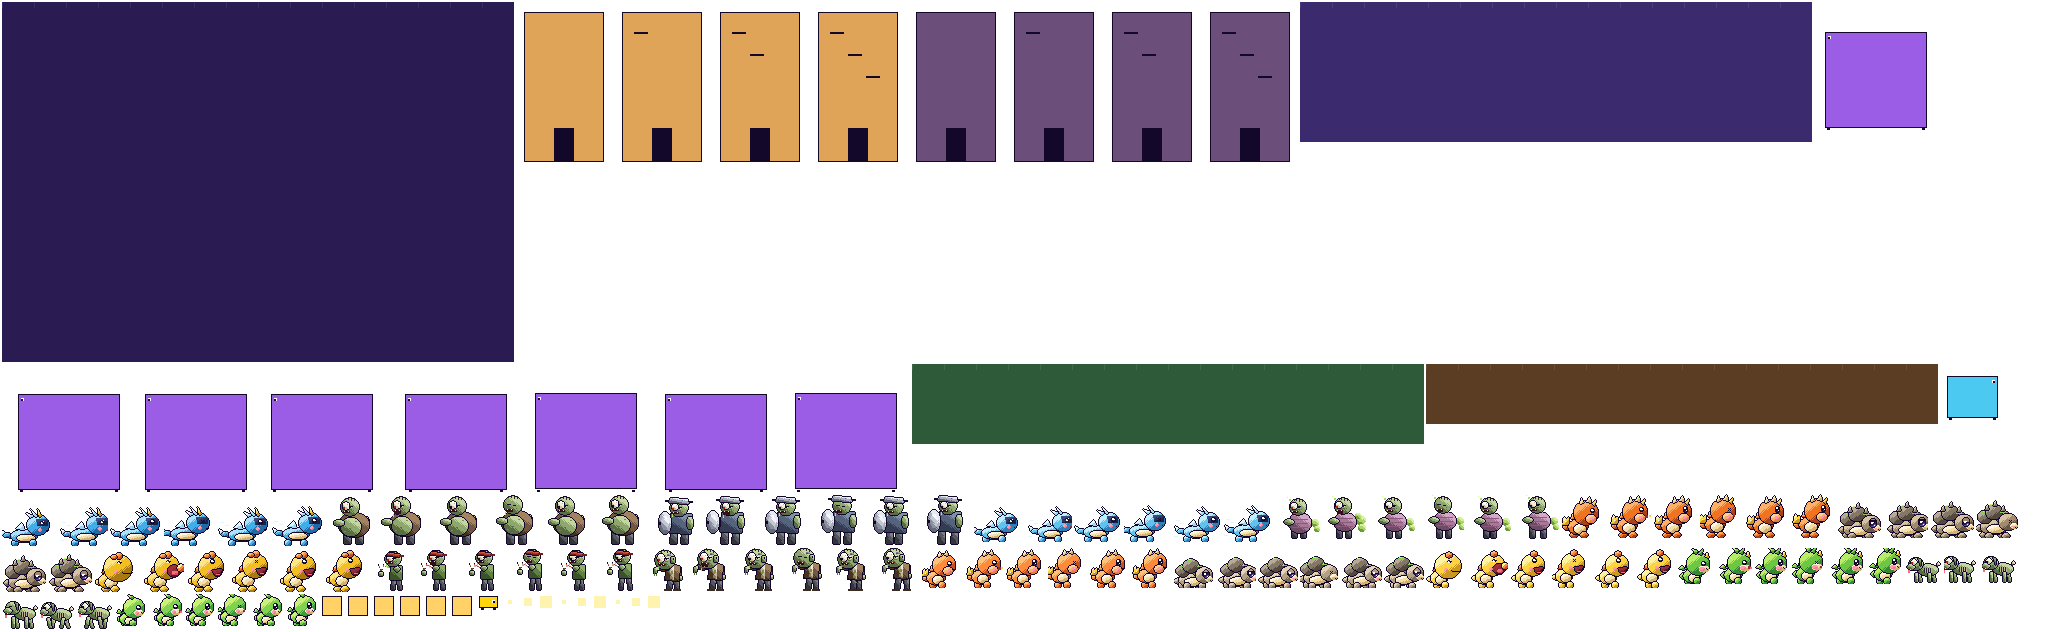
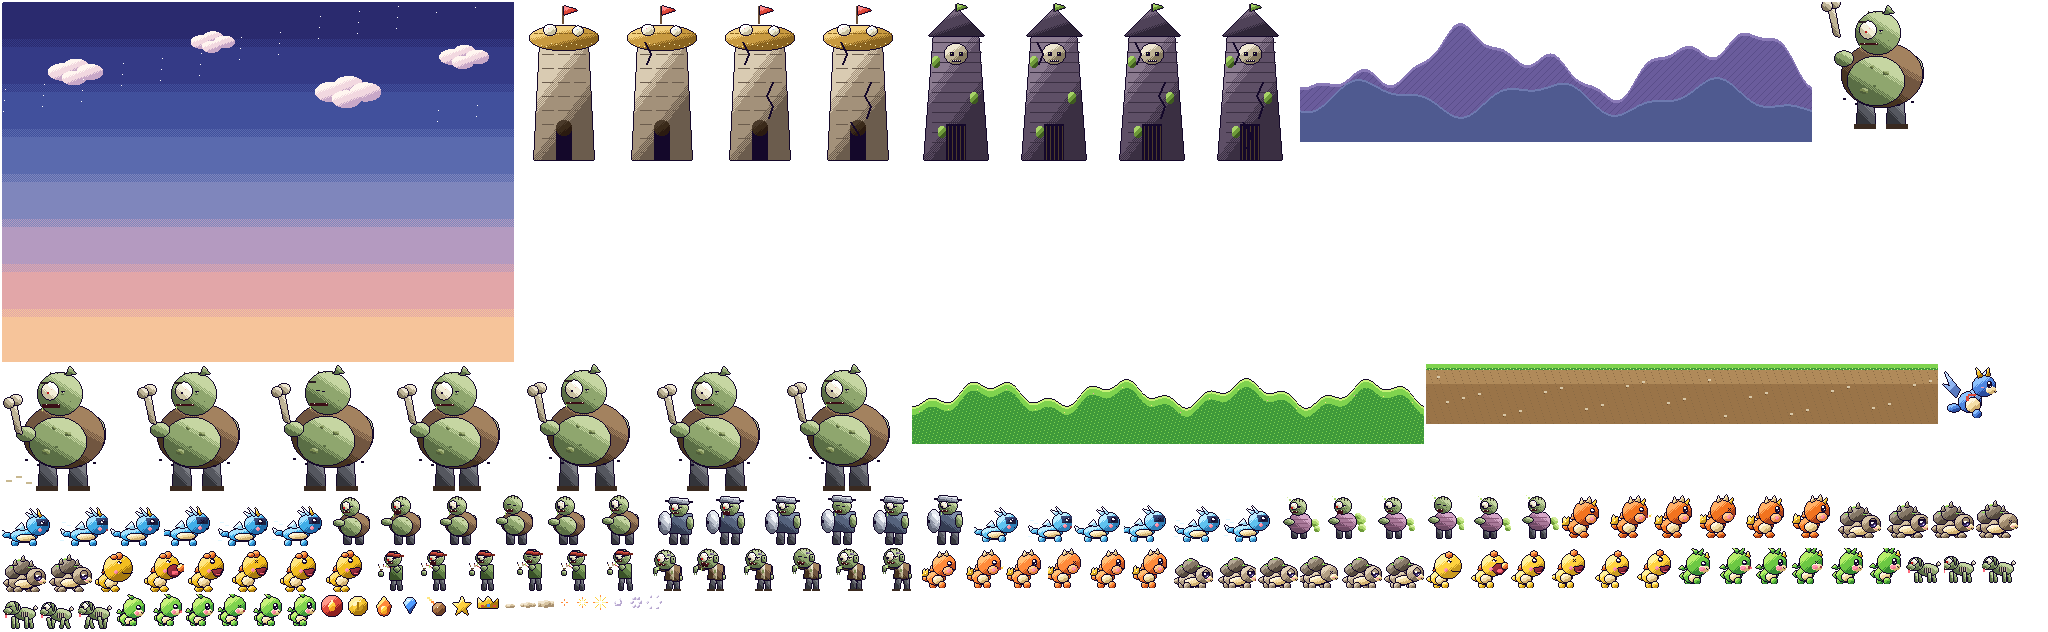
이안 드래곤 그림 A2 완료: 월드 1 보스 · 리더 · 왕관 · 기지 · 배경 4겹 · 아이콘 · 이펙트 — 시트 133프레임 전부 진짜 그림

diff --git a/src/games/iandragon_game/art/misc_w1.js b/src/games/iandragon_game/art/misc_w1.js
@@ -1,0 +1,114 @@
+/**
+ * 이안 드래곤 게임 — 월드 1 보스 · 리더 · 왕관 · 기지 (겜팀장 · A2 ②). 전부 오리지널.
+ * 보스 동작: idle0 · walk0~3 · atk0 · atk1 · kb0 / 기지: hp0~3 (금이 점점) / 리더 · 왕관: idle0
+ */
+import { Pix, part } from './kit.js';
+import { RAMP, C, OUT } from './palette.js';
+import { pose } from './units.js';
+import { zFace, ZSKIN } from './zombies_w1.js';
+
+export const BOSS_ANIMS = ['idle0', 'walk0', 'walk1', 'walk2', 'walk3', 'atk0', 'atk1', 'kb0'];
+const PANTS = ['#7d7f86', '#55575f', '#33343a'];
+const GOLD = ['#fff1a0', '#f2c230', '#a8780e'];
+const flip = (p) => { const o = new Pix(p.w, p.h); o.blit(p, 0, 0, true); return o; };
+
+/* ───────── 뚱보 좀비 대장 bossFat (128칸) — 산만 한 배 · 뼈다귀 몽둥이 · 찢어진 양복 ───────── */
+function bossFat(a) {
+  const S = 128, p = new Pix(S, S);
+  const w = { walk0: [1, 0], walk1: [-1, -2], walk2: [-1, 0], walk3: [1, -2] }[a] ?? [0, 0];
+  const q = a.startsWith('walk') ? { dx: 0, dy: w[1], eye: 'open', mouth: 0 } : pose(a);
+  const X = (v) => v + (q.dx ?? 0) * 2, Y = (v) => v + (q.dy ?? 0), g = w[0] * 3;
+  for (const [lx, s] of [[40, 1], [70, -1]]) part.poly(p, [[X(lx) + g * s, Y(96)], [X(lx + 16) + g * s, Y(96)], [X(lx + 17) + g * s, S - 3], [X(lx - 1) + g * s, S - 3]], PANTS);
+  for (const [lx, s] of [[36, 1], [68, -1]]) p.rect(X(lx) + g * s, S - 6, 22, 5, '#3a2a20');      // 구두
+  part.ell(p, X(30), Y(70), 9, 16, ZSKIN);                                                       // 뒷팔
+  part.ell(p, X(62), Y(72), 40, 32, ['#a3825f', '#715640', '#45321f']);                          // 찢어진 양복 몸통
+  part.ell(p, X(68), Y(78), 28, 24, ZSKIN);                                                      // 산만 한 배
+  for (const [bx, by, r] of [[58, 70, 3], [80, 88, 4], [72, 64, 2]]) part.ell(p, X(bx), Y(by), r, r * 0.7, ['#a8b880', '#7a8a50', '#4f5e3a'], { outline: false });   // 반점
+  p.rect(X(68), Y(82), 3, 2, ZSKIN[2]);                                                          // 배꼽
+  for (const [tx, ty] of [[30, 98], [44, 101], [86, 100], [98, 95]]) { p.rect(X(tx), Y(ty), 3, 2, OUT); }   // 찢어진 단
+  /* 뼈다귀 몽둥이 (공격: 들었다 내려찍기) */
+  const club = a === 'atk0' ? -26 : a === 'atk1' ? 10 : 0;
+  part.ell(p, X(100), Y(66) + club * 0.4, 9, 7, ZSKIN);                                          // 앞팔 · 주먹
+  part.poly(p, [[X(104), Y(60) + club], [X(110), Y(58) + club], [X(116), Y(30) + club], [X(110), Y(28) + club]], RAMP.bone);
+  part.ell(p, X(110), Y(26) + club, 6, 5, RAMP.bone); part.ell(p, X(117), Y(29) + club, 5, 4.5, RAMP.bone);
+  zFace(p, X(66), Y(30), 22, q);                                                                 // 큰 머리
+  part.poly(p, [[X(50), Y(10)], [X(56), Y(2)], [X(60), Y(11)]], ZSKIN);                          // 머리 혹
+  p.rect(X(78), Y(18), 8, 2, '#2a1c22');                                                         // 눈썹 흉터
+  if (a === 'atk1') for (const [sx, sy] of [[104, 112], [114, 116], [94, 118]]) p.rect(X(sx), sy, 6, 2, '#c8b890');   // 땅 먼지
+  return flip(p);
+}
+
+/* ───────── 리더 노바트 novart (64×56) — 내 기지 꼭대기의 파란 용 · 날개를 편 자세 ───────── */
+const NAVY = ['#8fc4ff', '#4f86e0', '#2a4ea0'];
+function novart() {
+  const p = new Pix(64, 56);
+  part.poly(p, [[20, 26], [4, 6], [10, 22], [2, 20], [16, 34]], ['#c6e0ff', '#8fb4f0', '#5a7ac0']);   // 뒤 날개
+  part.ell(p, 14, 44, 6, 3.4, NAVY);                                                             // 꼬리
+  part.ell(p, 28, 44, 4, 4, NAVY, { openBottom: true });
+  part.ell(p, 30, 38, 11, 10, NAVY);                                                             // 몸
+  part.ell(p, 33, 41, 7, 7, RAMP.belly);
+  part.ell(p, 37, 50, 4, 4, NAVY, { openBottom: true });
+  part.poly(p, [[30, 28], [46, 6], [44, 24], [54, 20], [38, 36]], ['#dceeff', '#a8ccf8', '#6a90d0']);   // 앞 날개
+  part.ell(p, 44, 22, 11, 10, NAVY);                                                             // 머리
+  part.poly(p, [[38, 14], [36, 3], [43, 12]], GOLD); part.poly(p, [[46, 12], [48, 2], [50, 12]], GOLD);   // 뿔
+  part.ell(p, 51, 26, 5, 3.6, RAMP.belly, { outline: false });                                   // 주둥이
+  p.rect(48, 17, 3, 7, OUT); p.rect(47, 18, 5, 5, OUT); p.rect(48, 18, 2, 2, '#ffffff'); p.set(50, 22, '#ffffff');   // 눈
+  p.rect(41, 23, 3, 1, '#ff9ab0');
+  p.set(54, 27, OUT); p.set(55, 28, OUT); p.set(56, 27, OUT);
+  p.rect(28, 30, 8, 2, '#e04a3a'); p.rect(26, 32, 3, 5, '#e04a3a');                             // 빨간 목도리 (리더 표시)
+  return p;
+}
+
+/* ───────── 중간 보스 왕관 crown (24×16) ───────── */
+function crown() {
+  const p = new Pix(24, 16);
+  part.poly(p, [[2, 14], [2, 4], [7, 9], [12, 2], [17, 9], [22, 4], [22, 14]], GOLD);
+  p.rect(5, 11, 3, 2, '#e04a3a'); p.rect(11, 10, 3, 3, '#3f8cff'); p.rect(17, 11, 3, 2, '#e04a3a');
+  p.set(12, 3, '#ffffff'); p.set(3, 5, '#ffffff');
+  return p;
+}
+
+/* ───────── 기지 (96×160) — 내 둥지 탑 · 좀비 탑, hp0~3 금 ───────── */
+function cracks(p, n, col) {
+  const lines = [[[30, 40], [36, 52], [32, 62]], [[60, 80], [54, 94], [60, 104], [56, 116]], [[40, 120], [48, 132], [44, 146]]];
+  for (let i = 0; i < n; i++) for (let j = 0; j + 1 < lines[i].length; j++) {
+    const [ax, ay] = lines[i][j], [bx, by] = lines[i][j + 1], st = Math.max(Math.abs(bx - ax), Math.abs(by - ay));
+    for (let t = 0; t <= st; t++) { const x = Math.round(ax + ((bx - ax) * t) / st), y = Math.round(ay + ((by - ay) * t) / st); p.set(x, y, col); p.set(x + 1, y, col); }
+  }
+}
+function nest(hp) {
+  const p = new Pix(96, 160);
+  part.poly(p, [[18, 158], [24, 40], [72, 40], [78, 158]], RAMP.stone);                          // 돌탑
+  for (let y = 52; y < 156; y += 14) for (let x = (y / 14) % 2 ? 26 : 34; x < 72; x += 16) p.rect(x, y, 12, 1, RAMP.stone[2]);   // 돌 줄눈
+  p.rect(40, 126, 16, 32, OUT); part.ell(p, 48, 126, 8, 8, ['#4a3a2a', '#3a2a1a', '#2a1a10'], { outline: false });   // 문
+  part.ell(p, 48, 36, 34, 12, ['#f2d080', '#c89a40', '#8a6420']);                                 // 짚 둥지
+  for (let x = 18; x < 80; x += 5) { p.rect(x, 30 + ((x * 7) % 5), 4, 1, '#8a6420'); p.set(x + 2, 44 - ((x * 3) % 4), '#fff0b0'); }
+  part.ell(p, 34, 28, 6, 5, ['#ffffff', '#f2eed8', '#c8c0a0']); part.ell(p, 62, 29, 5, 4.4, ['#ffffff', '#f2eed8', '#c8c0a0']);   // 알
+  p.set(32, 26, '#ff9ab0'); p.set(61, 27, '#8fc4ff');
+  p.rect(46, 4, 2, 18, RAMP.rag[1]); part.poly(p, [[48, 4], [62, 8], [48, 13]], ['#ff8a8a', '#e04a3a', '#a02020']);   // 깃발
+  cracks(p, hp, RAMP.stone[2] === OUT ? '#000' : OUT);
+  return p;
+}
+function tower(hp) {
+  const p = new Pix(96, 160);
+  const WOOD = ['#8a7a8f', '#5e4f66', '#3a2f42'];
+  part.poly(p, [[16, 158], [26, 30], [70, 30], [80, 158]], WOOD);                                // 썩은 나무 탑
+  for (let y = 40; y < 156; y += 10) p.rect(24, y, 50, 1, WOOD[2]);
+  for (const [vx, vy] of [[28, 60], [66, 96], [34, 130]]) part.ell(p, vx, vy, 4, 6, ['#a8d468', '#6e9a3a', '#3e5a20'], { outline: false });   // 덩굴 · 이끼
+  p.rect(38, 122, 20, 36, OUT); for (let x = 40; x < 58; x += 4) p.rect(x, 124, 1, 34, '#4a3a2a');   // 창살 문
+  part.poly(p, [[20, 34], [48, 6], [76, 34]], ['#7a6a80', '#4f4258', '#2f2638']);                // 뾰족 지붕
+  part.ell(p, 48, 52, 11, 10, RAMP.bone);                                                        // 해골 장식
+  p.rect(42, 50, 4, 4, OUT); p.rect(51, 50, 4, 4, OUT); p.set(43, 51, '#c8f27a'); p.set(52, 51, '#c8f27a');
+  p.rect(44, 58, 9, 2, OUT); for (let x = 45; x < 53; x += 2) p.set(x, 58, RAMP.bone[0]);
+  p.rect(47, 2, 2, 8, '#3a2f42'); part.poly(p, [[49, 2], [60, 5], [49, 9]], ['#a8d468', '#6e9a3a', '#3e5a20']);   // 초록 깃발
+  cracks(p, hp, OUT);
+  return p;
+}
+
+export const MISC_W1 = {
+  'boss/bossFat/0': { anims: BOSS_ANIMS, draw: (a) => bossFat(a) },
+  'leader/novart/0': { anims: ['idle0'], draw: () => novart() },
+  'crown/0/0': { anims: ['idle0'], draw: () => crown() },
+  'base/nest/0': { anims: ['hp0', 'hp1', 'hp2', 'hp3'], draw: (a) => nest(+a.slice(2)) },
+  'base/tower/w01': { anims: ['hp0', 'hp1', 'hp2', 'hp3'], draw: (a) => tower(+a.slice(2)) },
+};

diff --git a/src/games/iandragon_game/art/bg_ui_w1.js b/src/games/iandragon_game/art/bg_ui_w1.js
@@ -1,0 +1,93 @@
+/**
+ * 이안 드래곤 게임 — 월드 1 배경 · 아이콘 · 공통 이펙트 (겜팀장 · A2 ③)
+ * 배경은 가로로 이어 붙일 수 있게(512칸 주기) · 그라디언트 대신 계단 색 띠 + 바둑판 디더.
+ */
+import { Pix, part } from './kit.js';
+import { RAMP, OUT } from './palette.js';
+
+const TW = 512, TAU = Math.PI * 2;
+const wave = (x, ...terms) => terms.reduce((s, [amp, n, ph]) => s + amp * Math.sin((x / TW) * TAU * n + ph), 0);   // 512칸마다 같은 모양
+
+/** 하늘 (512×360) — 해 질 녘 띠 + 구름 */
+function sky() {
+  const p = new Pix(TW, 360);
+  const bands = ['#2a2a6e', '#343a86', '#41509c', '#5a6aae', '#7f86bc', '#b49ac0', '#e2a6a8', '#f6c49a'];
+  const bh = 360 / bands.length;
+  for (let y = 0; y < 360; y++) {
+    const b = Math.min(bands.length - 1, Math.floor(y / bh)), f = (y % bh) / bh;
+    for (let x = 0; x < TW; x++) p.set(x, y, f > 0.8 && (x + y) % 2 === 0 && b + 1 < bands.length ? bands[b + 1] : bands[b]);
+  }
+  for (const [cx, cy, s] of [[60, 70, 1], [200, 40, 0.8], [330, 90, 1.2], [450, 55, 0.9]]) {     // 구름
+    for (const [dx, dy, r] of [[0, 0, 14], [14, -6, 12], [28, 0, 13], [12, 6, 12]]) part.ell(p, cx + dx * s, cy + dy * s, r * s, r * 0.6 * s, ['#fff6f0', '#f2d8e0', '#c8a8c8'], { outline: false });
+  }
+  for (let i = 0; i < 40; i++) { const x = (i * 197) % TW, y = (i * 73) % 120; p.set(x, y, '#ffffff'); }   // 이른 별
+  return p;
+}
+/** 먼 산 (512×140) */
+function far() {
+  const p = new Pix(TW, 140);
+  for (let x = 0; x < TW; x++) {
+    const top = Math.round(60 + wave(x, [24, 2, 0.4], [12, 5, 1.3], [5, 11, 2.2]));
+    for (let y = top; y < 140; y++) p.set(x, y, y - top < 3 ? '#8a7ab8' : (x + y) % 7 === 0 ? '#5a4e8a' : '#6a5c9c');
+    const t2 = Math.round(95 + wave(x, [14, 3, 2.1], [6, 7, 0.2]));
+    for (let y = t2; y < 140; y++) p.set(x, y, y - t2 < 2 ? '#6e7ab0' : '#4f5a90');
+  }
+  return p;
+}
+/** 가까운 풀숲 (512×80) */
+function near() {
+  const p = new Pix(TW, 80);
+  for (let x = 0; x < TW; x++) {
+    const top = Math.round(30 + wave(x, [10, 4, 0.9], [5, 13, 1.7]));
+    for (let y = top; y < 80; y++) p.set(x, y, y - top < 2 ? RAMP.leaf[0] : y - top < 8 ? RAMP.leaf[1] : (x * 3 + y) % 11 === 0 ? RAMP.leaf[1] : RAMP.leaf[2]);
+    p.set(x, top - 1, OUT);
+  }
+  for (let i = 0; i < 18; i++) { const x = (i * 29 + 7) % TW, y = Math.round(36 + wave(x, [10, 4, 0.9], [5, 13, 1.7])); p.set(x, y, i % 3 ? '#ffe680' : '#ff9ab0'); }   // 들꽃
+  return p;
+}
+/** 바닥 (512×60) — 흙길 + 풀 테두리 + 조약돌 */
+function ground() {
+  const p = new Pix(TW, 60);
+  for (let y = 0; y < 60; y++) for (let x = 0; x < TW; x++) p.set(x, y, y < 4 ? RAMP.leaf[1] : y < 6 ? RAMP.leaf[2] : (x * 7 + y * 13) % 23 === 0 ? '#8a6a44' : y < 20 ? '#b08a5a' : '#9a7448');
+  for (let x = 0; x < TW; x += 3) p.set(x, 4 + (x % 2), RAMP.leaf[0]);
+  for (let i = 0; i < 26; i++) { const x = (i * 41 + 11) % (TW - 4), y = 12 + (i * 17) % 40; p.rect(x, y, 3, 2, '#d8c8a8'); p.set(x, y + 2, '#6a4a2a'); }
+  return p;
+}
+
+/* ───────── 아이콘 (24칸) ───────── */
+const ICON = {
+  ember: (p) => { part.poly(p, [[12, 2], [19, 12], [17, 20], [12, 22], [7, 20], [5, 12]], ['#ffe680', '#ff8a3a', '#c4521f']); part.ell(p, 12, 16, 3, 4, ['#fff6c0', '#ffd23f', '#f2a020'], { outline: false }); },
+  coin: (p) => { part.ell(p, 12, 12, 9, 9, ['#fff1a0', '#f2c230', '#a8780e']); part.ell(p, 12, 12, 5, 5, ['#fff6c0', '#ffd23f', '#c99a1f'], { outline: false }); p.rect(11, 8, 2, 8, '#a8780e'); },
+  gem: (p) => { part.poly(p, [[6, 9], [9, 4], [15, 4], [18, 9], [12, 20]], ['#bfe8ff', '#4f9cff', '#2a4ea0']); p.rect(9, 6, 3, 1, '#ffffff'); },
+  star: (p) => { part.poly(p, [[12, 2], [15, 9], [22, 9], [16, 14], [18, 21], [12, 17], [6, 21], [8, 14], [2, 9], [9, 9]], ['#fff6a0', '#ffd23f', '#c99a1f']); },
+  attr_red: (p) => { part.ell(p, 12, 12, 10, 10, ['#ff9a8a', '#e04a3a', '#8e2020']); part.poly(p, [[12, 5], [16, 12], [14, 17], [10, 17], [8, 12]], ['#fff6c0', '#ffd23f', '#f2a020'], { outline: false }); },
+  skill_meteor: (p) => { for (let i = 0; i < 4; i++) p.rect(3 + i * 2, 3 + i * 2, 3, 2, i < 2 ? '#ffe680' : '#ff8a3a'); part.ell(p, 15, 15, 6, 6, ['#d8a878', '#a06a3e', '#6a4026']); p.set(13, 13, '#ffffff'); },
+};
+function icon(id) { const p = new Pix(24, 24); ICON[id]?.(p); return p; }
+
+/* ───────── 공통 이펙트 (16칸 · 3장) ───────── */
+function fx(kind, i) {
+  const p = new Pix(16, 16), c = 8;
+  if (kind === 'hit') {                                                                           // 타격 별빛
+    const r = 3 + i * 2;
+    for (const [dx, dy] of [[1, 0], [-1, 0], [0, 1], [0, -1]]) for (let t = 1; t <= r; t++) p.set(c + dx * t, c + dy * t, t > r - 2 ? '#ff8a3a' : '#fff6a0');
+    for (const [dx, dy] of [[1, 1], [-1, 1], [1, -1], [-1, -1]]) for (let t = 1; t <= r - 2; t++) p.set(c + dx * t, c + dy * t, '#ffd23f');
+    p.rect(c - 1, c - 1, 3, 3, '#ffffff');
+  } else if (kind === 'dust') {                                                                   // 발밑 먼지
+    for (const [dx, r] of [[-3, 2 + i], [3, 2 + i], [0, 3 + i]]) part.ell(p, c + dx * (1 + i * 0.5), 12 - i, r, r * 0.7, ['#f2e6d0', '#d8c4a0', '#a89070'], { outline: false });
+  } else {                                                                                        // 펑 (쓰러짐)
+    const r = 2 + i * 2.2;
+    for (let k = 0; k < 6; k++) { const an = (k / 6) * TAU; part.ell(p, c + Math.cos(an) * r, c + Math.sin(an) * r, 2.2 - i * 0.4, 2.2 - i * 0.4, ['#ffffff', '#e8e2f2', '#b8a8d0'], { outline: false }); }
+    if (i === 0) p.rect(c - 2, c - 2, 4, 4, '#ffffff');
+  }
+  return p;
+}
+
+export const BG_UI_W1 = {
+  'bg/w01/sky': { anims: [], draw: sky, anchor: { x: 0, y: 0 } },
+  'bg/w01/far': { anims: [], draw: far, anchor: { x: 0, y: 0 } },
+  'bg/w01/near': { anims: [], draw: near, anchor: { x: 0, y: 0 } },
+  'bg/w01/ground': { anims: [], draw: ground, anchor: { x: 0, y: 0 } },
+  ...Object.fromEntries(Object.keys(ICON).map((id) => [`icon/${id}`, { anims: [], draw: () => icon(id) }])),
+  ...Object.fromEntries(['hit', 'dust', 'poof'].map((k) => [`fx/${k}/0`, { anims: ['0', '1', '2'], draw: (a) => fx(k, +a) }])),
+};

diff --git a/src/games/iandragon_game/art/index.js b/src/games/iandragon_game/art/index.js
@@ -6,6 +6,10 @@
 import { UNITS, ANIMS } from './units.js';
 import { DRAGONS_W1 } from './dragons_w1.js';
 import { ZOMBIES_W1 } from './zombies_w1.js';
+import { MISC_W1 } from './misc_w1.js';
+import { BG_UI_W1 } from './bg_ui_w1.js';
 
 export const FRAMES = {};
 for (const [k, draw] of Object.entries({ ...UNITS, ...DRAGONS_W1, ...ZOMBIES_W1 })) FRAMES[k] = { anims: ANIMS, draw };
+Object.assign(FRAMES, MISC_W1);   // 보스 · 리더 · 왕관 · 기지 (동작 목록이 다르다)
+Object.assign(FRAMES, BG_UI_W1);   // 배경 · 아이콘 · 이펙트

diff --git a/docs/IAN_DRAGON_GAME_ART_LOG.md b/docs/IAN_DRAGON_GAME_ART_LOG.md
@@ -6,3 +6,9 @@
 - `art/units.js` : 꼬물이(1·2모습 32·36칸) · 돌등이(1·2모습 40·44칸) · 어슬렁 좀비(36칸) × 6동작(idle0 · walk0 · walk1 · atk0 · atk1 · kb0).
 - `tools/idg-art-preview.mjs` : 확인 시트(실제 크기 6동작 · 2배 · 4배 · 실루엣) → `tools/_out/idg-art-preview.png`.
 - 다음 : 대표님 승인 → 굽기(`tools/idg-art-build.mjs` · atlas) + A2 월드 1.
+
+## A1 승인 · A2 월드 1 (2026-11-10)
+- 대표님 승인: 3차 샘플(꼬물이 귀엽게 · 돌등이 그대로 · 좀비 다시). 대표님 방향: 용 = 귀여운 아기 몬스터 비율, 좀비 = «무섭고 징그러우면서 귀여운» 카툰 좀비, 크게(40~52칸).
+- 굽기 `tools/idg-art-build.mjs`(진짜 + 빠진 이름은 보관한 자리표시) · 검사 `tools/idg-art-qa.mjs` · 장면 확인 `tools/idg-art-scene.mjs`.
+- 월드 1 전부 진짜 그림(133/133): 용 5종 × 1·2모습(`units.js` · `dragons_w1.js`) · 좀비 6종(`zombies_w1.js`) · 뚱보 좀비 대장 · 노바트 · 왕관 · 둥지 탑 · 좀비 탑 hp0~3(`misc_w1.js`) · 배경 4겹 · 아이콘 6 · 이펙트 3×3(`bg_ui_w1.js`).
+- 다음: A3 효과음 · 곡 · 음성(보이스 스튜디오), artManifest 가 오면 빠진 이름 채우기.
